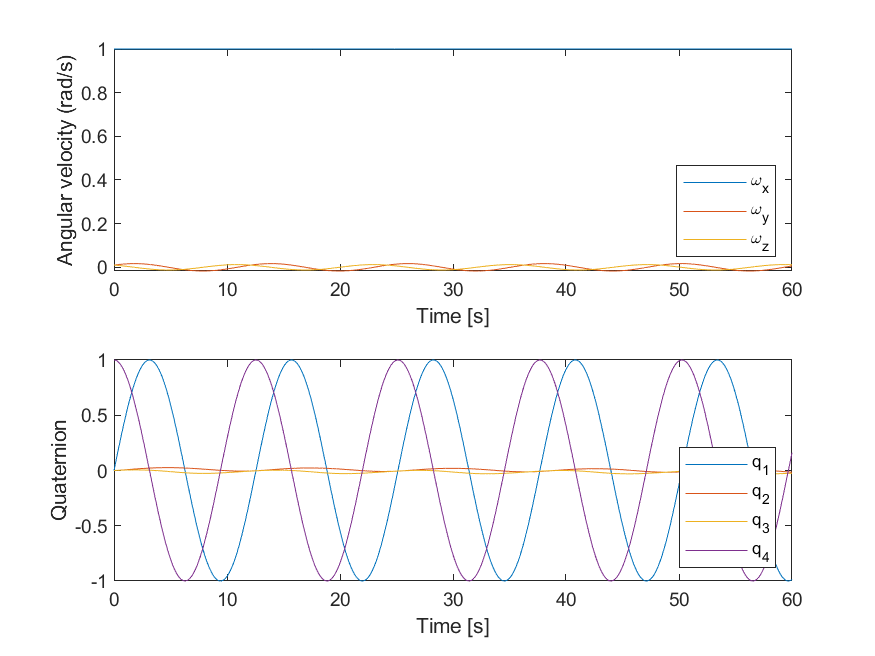
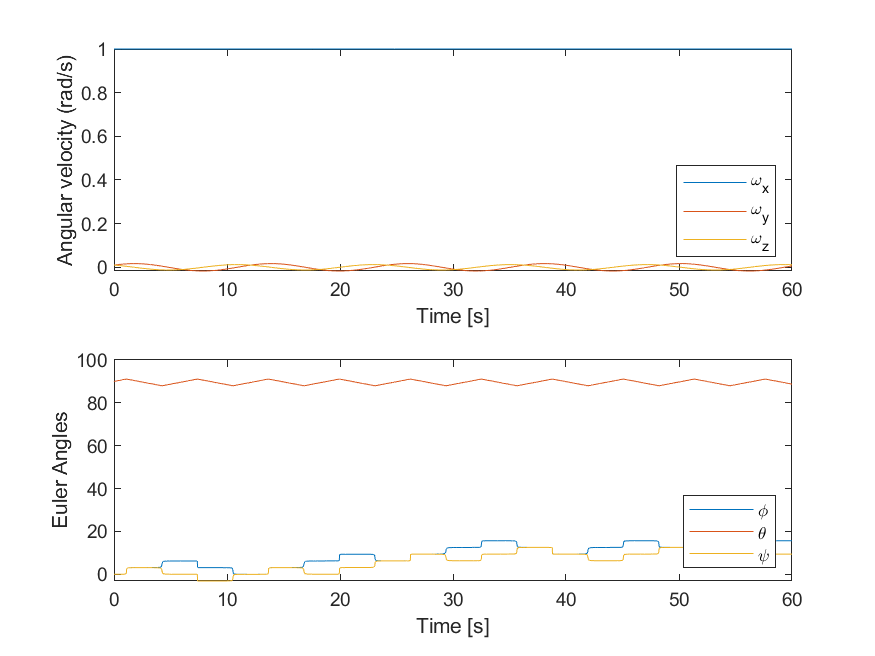
swapping 2a to euler

diff --git a/src/ps4.m b/src/ps4.m
@@ -79,12 +79,19 @@ w0y = [perturbation; 1; perturbation];
 w0z = [perturbation; perturbation; 1];
 
 w0Mat = {w0x, w0y, w0z};
-q0 = [0; 0; 0; 1];
+eulerAngle0 = [0; 90; 0];
 
 for n = 1:3
     w0 = w0Mat{n};
+    state0 = [eulerAngle0;w0];
     
-    [q,w] = kinQuaternionRK4(q0,w0,Ix,Iy,Iz,tFinal,tStep);
+    tspan = 0:tStep:tFinal;
+    options = odeset('RelTol',1e-6,'AbsTol',1e-9);
+    [t,state] = ode113(@(t,state) kinEulerAngle(t,state,Ix,Iy,Iz), ...
+        tspan,state0,options);
+
+    eulerAngle = state(:,1:3);
+    w = state(:,4:6);
 
     figure(3)
     subplot(2,1,1)
@@ -95,11 +102,10 @@ for n = 1:3
         'Location','Southeast')
 
     subplot(2,1,2)
-    plot(t, q)
+    plot(t, eulerAngle)
     xlabel('Time [s]')
-    ylabel('Quaternion')
-    legend('q_{1}','q_{2}','q_{3}','q_{4}', ...
-        'Location','Southeast')
+    ylabel('Euler Angles')
+    legend('\phi','\theta','\psi', 'Location','Southeast')
     saveas(3, ['Images/ps4_problem2a_', sprintf('%i',n), '.png'])
 end
 
